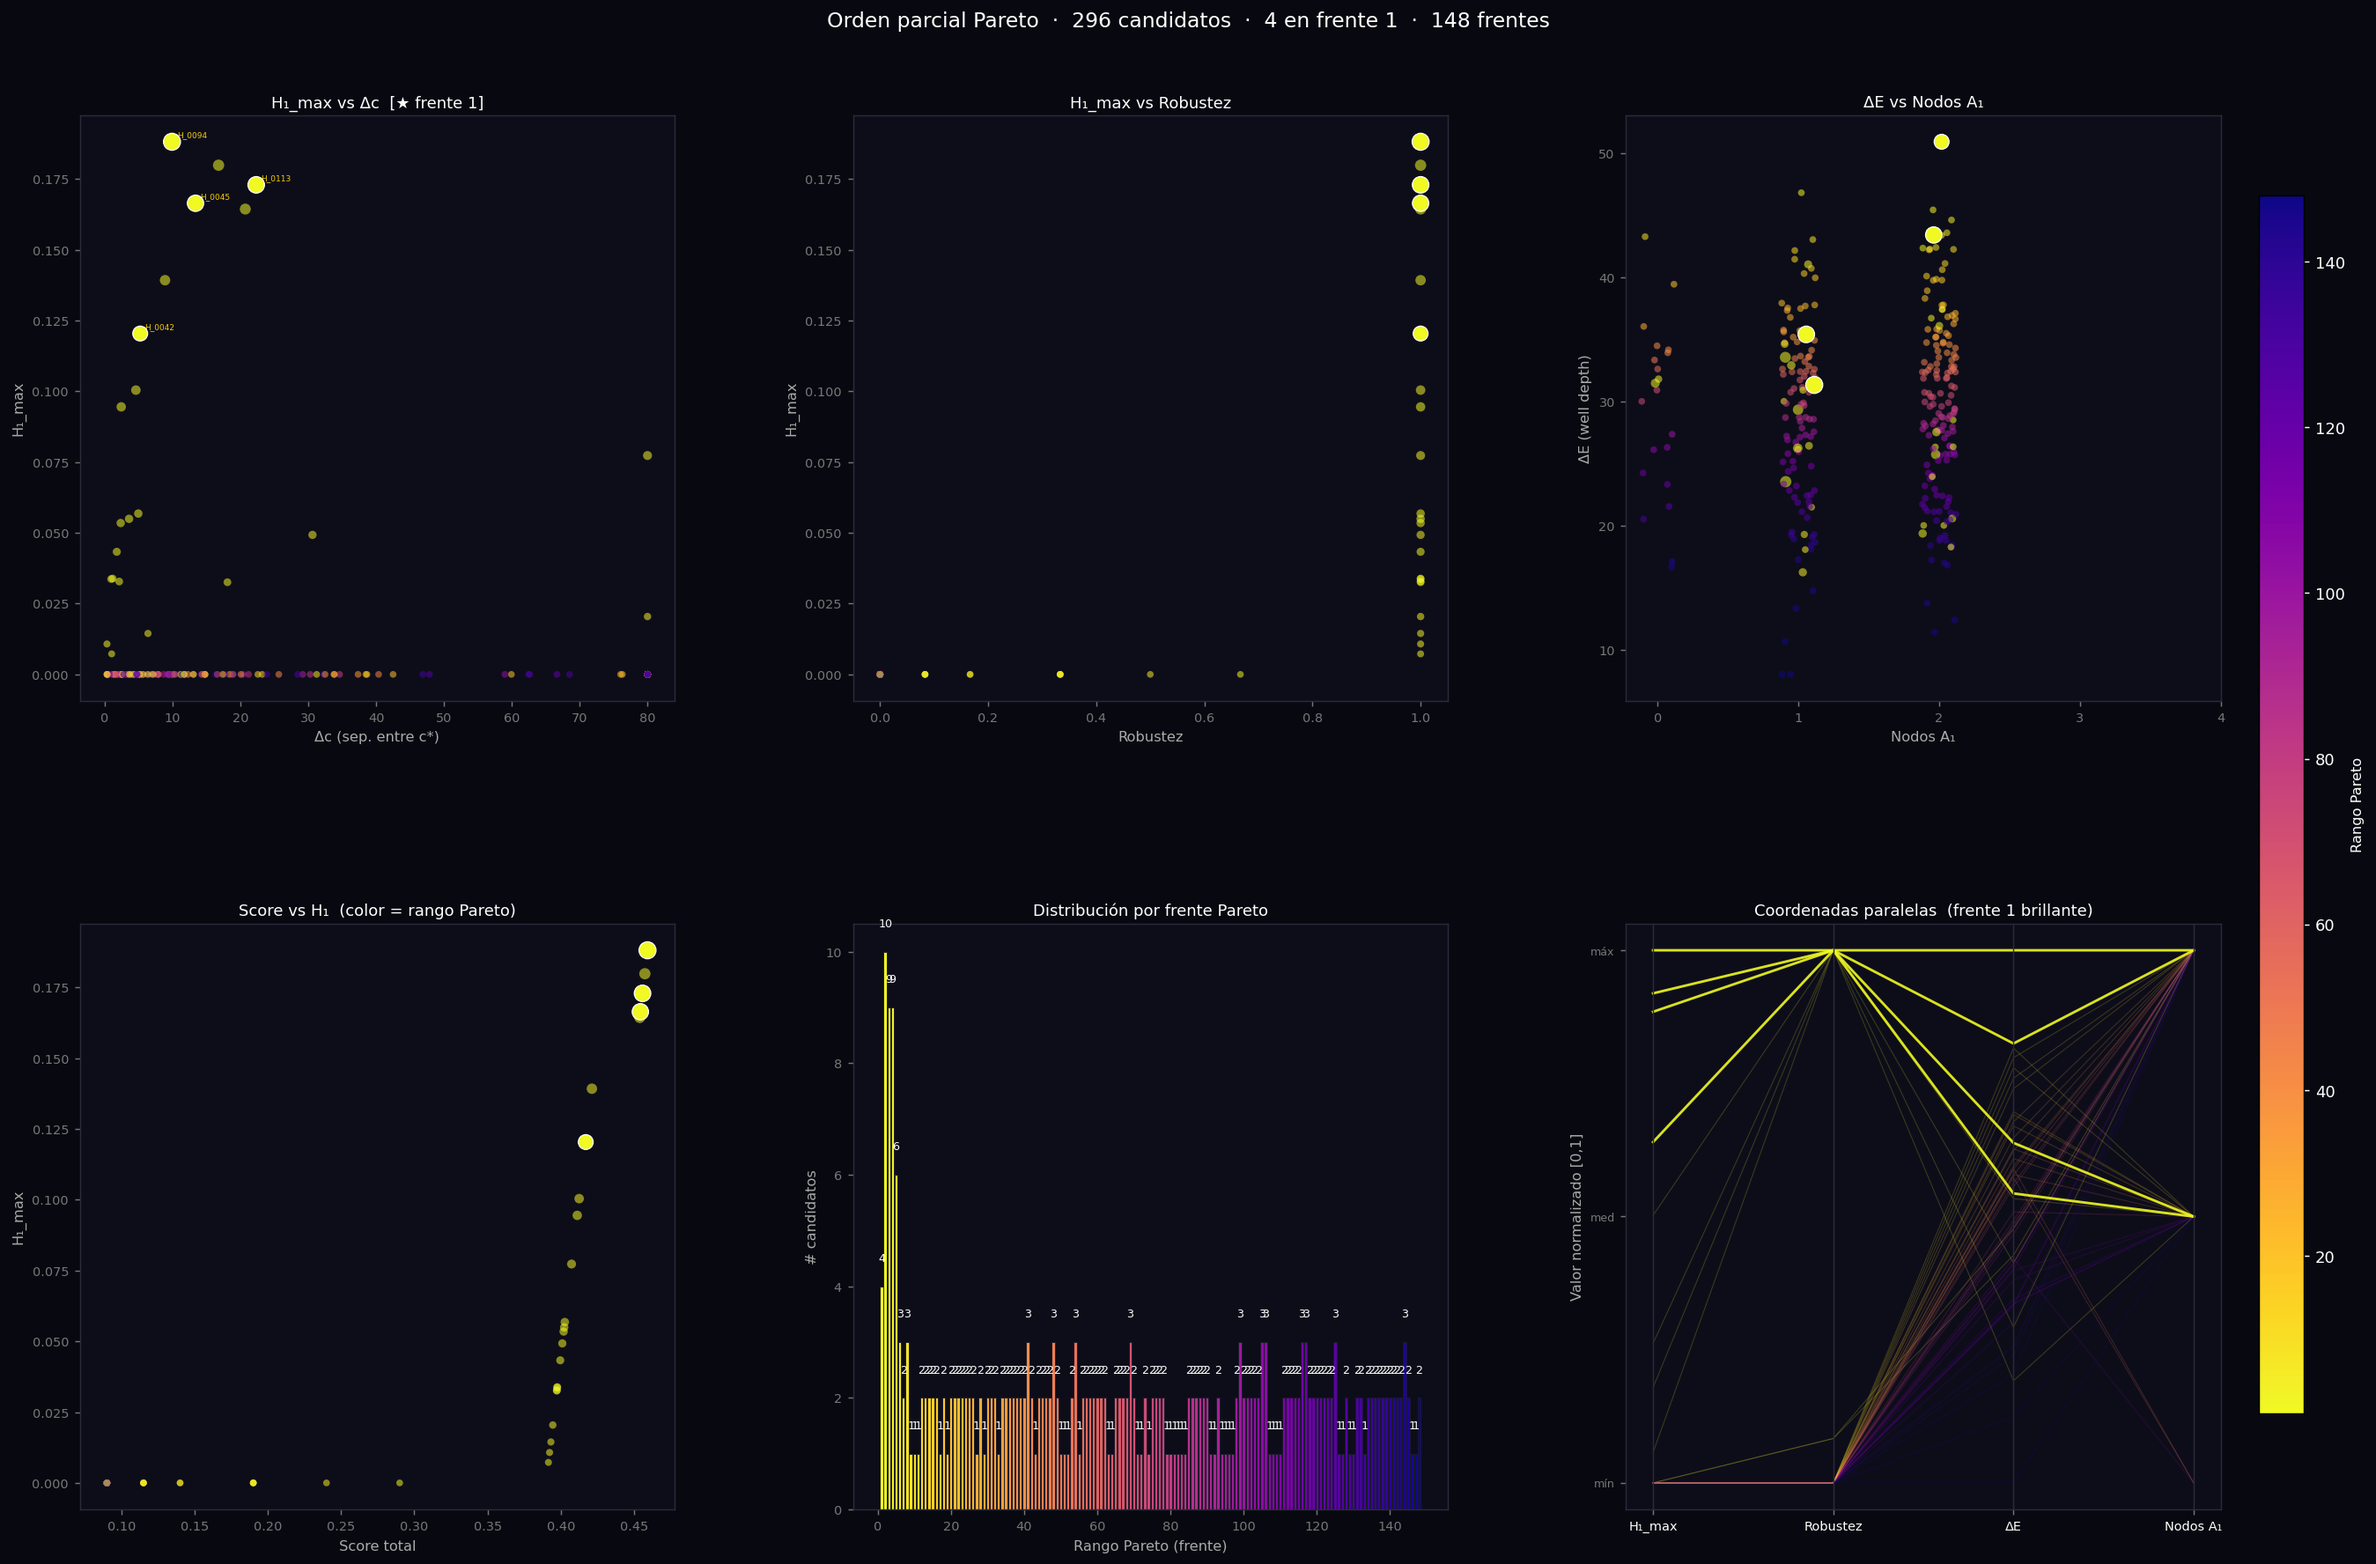
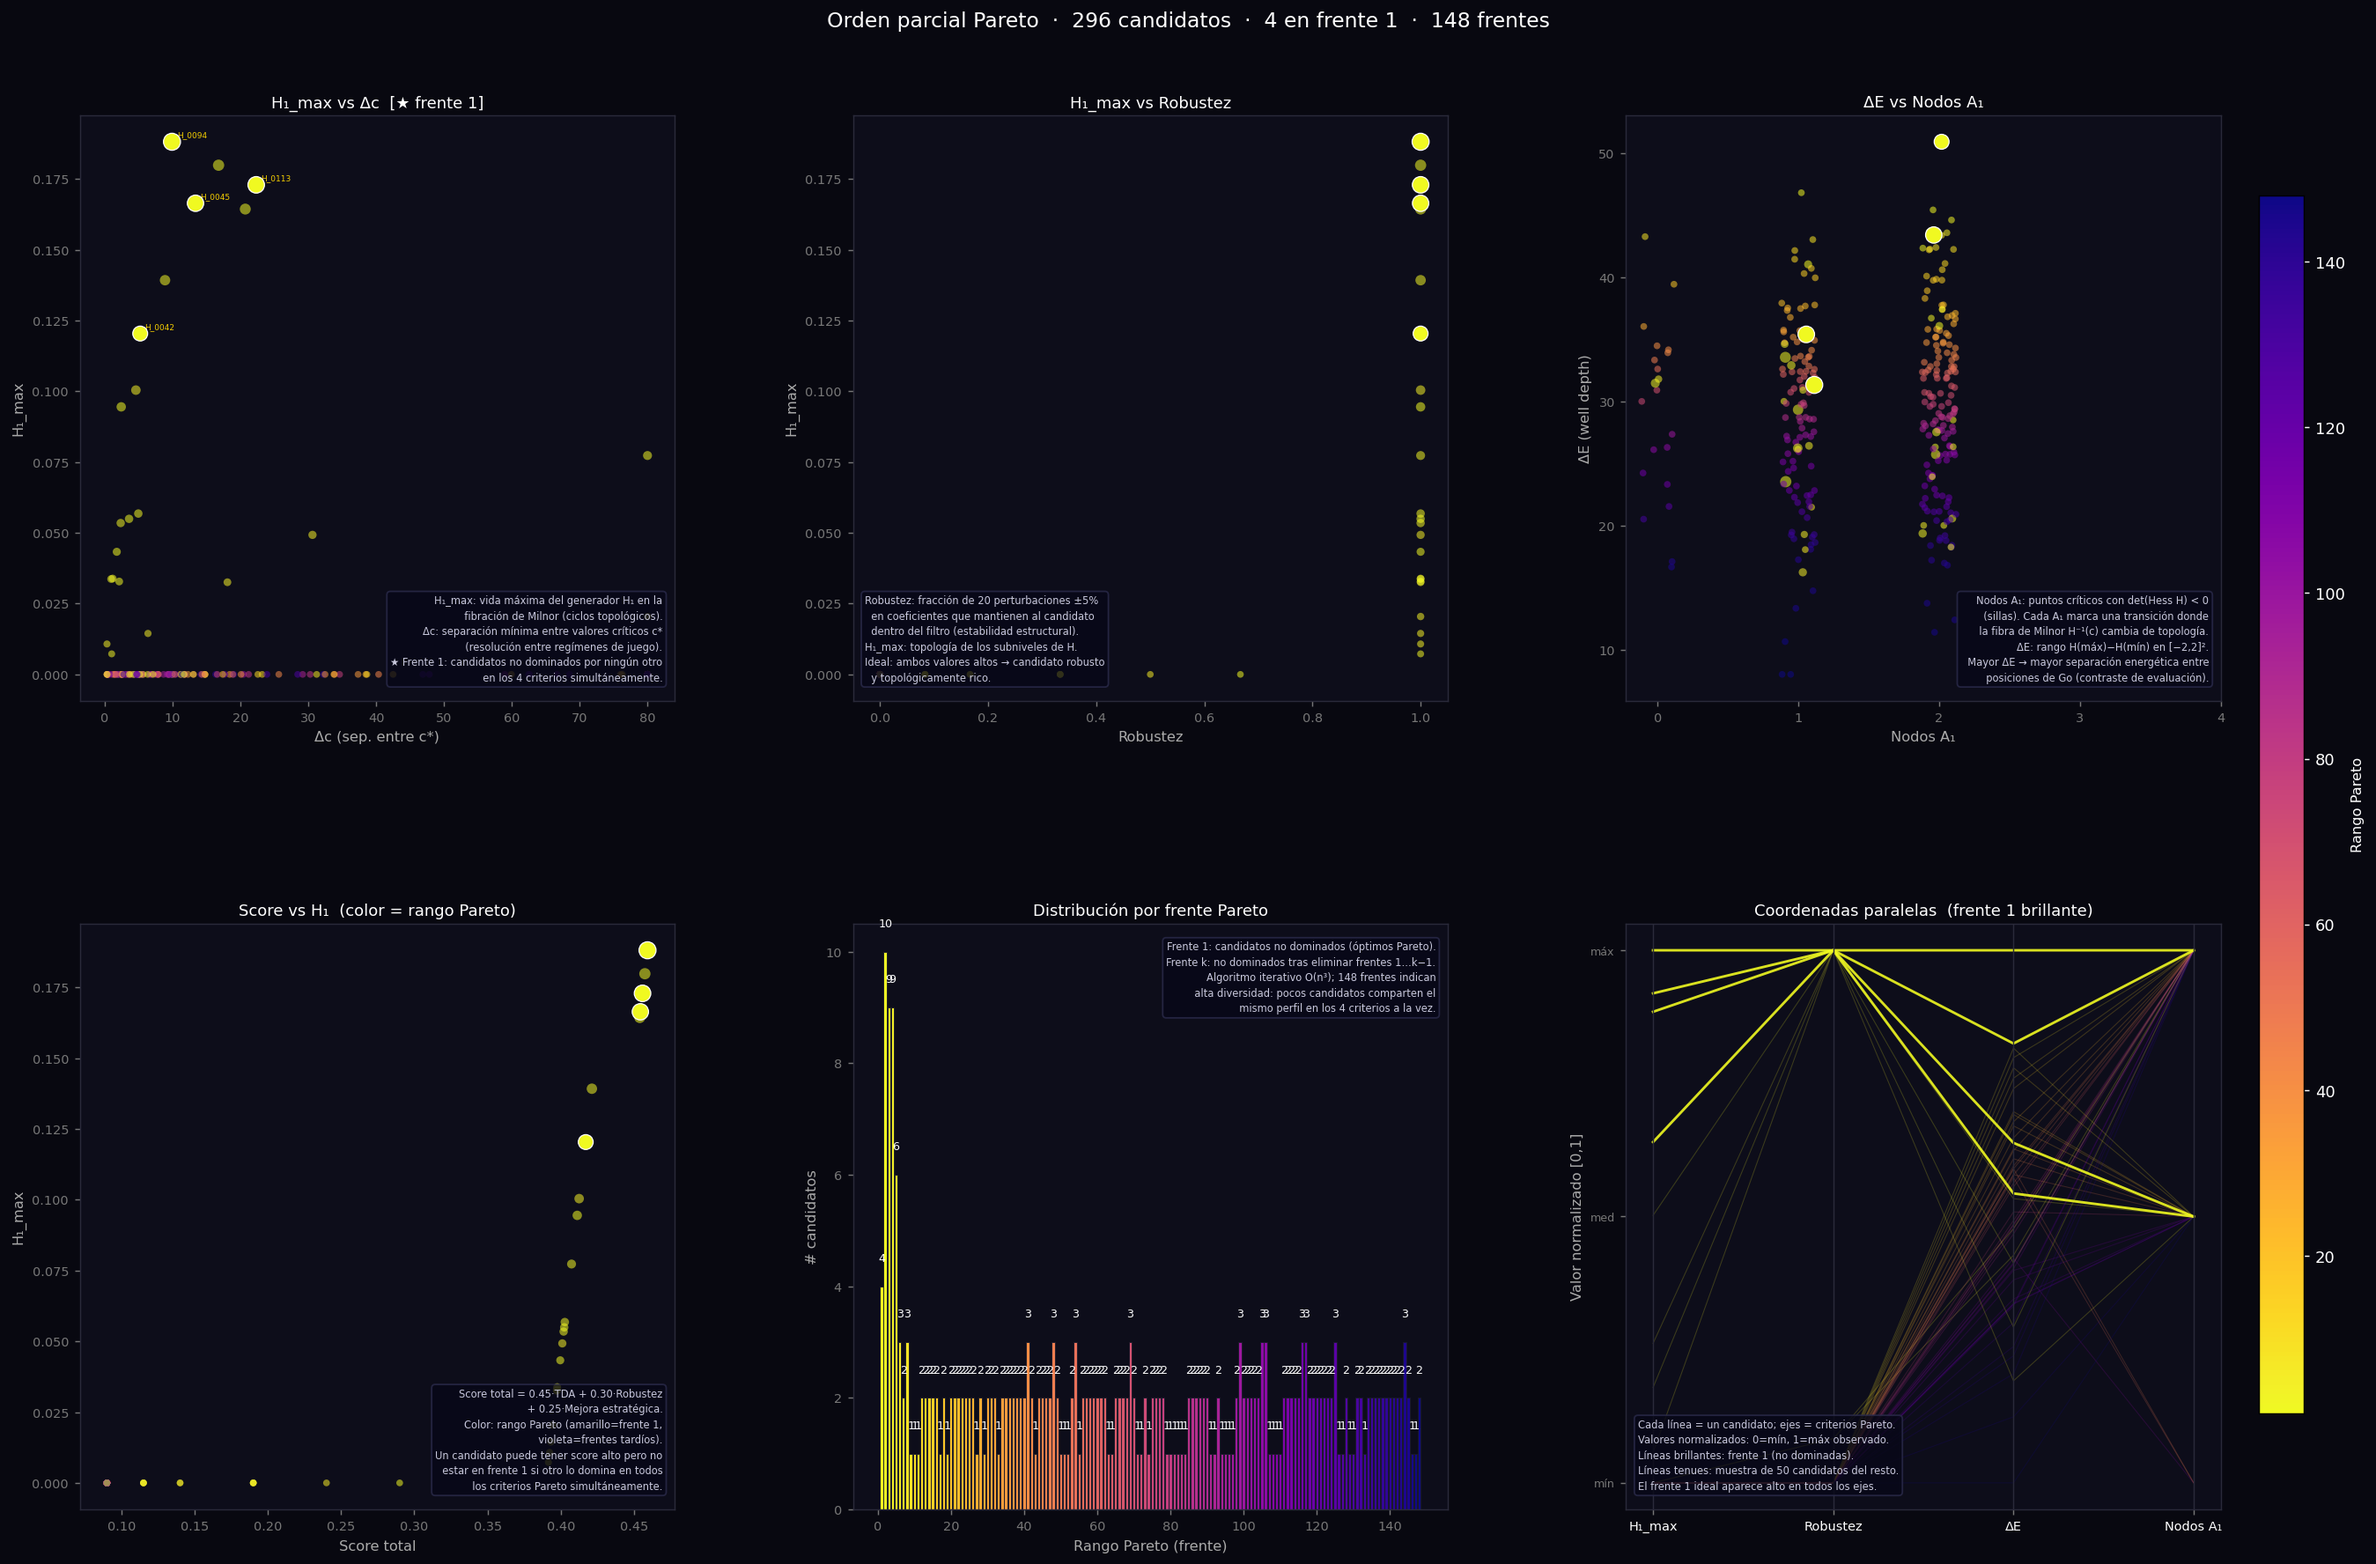
Añadir cajas de explicación a cada subplot del pareto_overview
Cada uno de los 6 grafos incluye ahora una nota descriptiva incrustada
que explica qué mide el eje, cómo leerlo y su conexión con la teoría
de fibración de Milnor y la estrategia de Go.

diff --git a/experiments/06_hamiltonian_families/pipeline.py b/experiments/06_hamiltonian_families/pipeline.py
@@ -550,15 +550,44 @@ def _generate_pareto_overview(catalog: Catalog, cfg: dict):
                             textcoords="offset points",
                             fontsize=5, color="#FFD700", alpha=0.95)
 
+    def _explain(ax, lines, loc="lower left"):
+        """Añade una caja de explicación dentro del subplot."""
+        va = "bottom" if "lower" in loc else "top"
+        ha = "left"   if "left"  in loc else "right"
+        x  = 0.02 if "left" in loc else 0.98
+        y  = 0.03 if "lower" in loc else 0.97
+        ax.text(x, y, "\n".join(lines),
+                transform=ax.transAxes,
+                fontsize=6.4, color="#C8C8DC", va=va, ha=ha,
+                linespacing=1.45,
+                bbox=dict(boxstyle="round,pad=0.35",
+                          fc="#080818", ec="#2A2A4A", alpha=0.82))
+
     # — Plot 1: H₁ vs Δc ——————————————————————————————————————————————————————
     ax1 = _ax((0,0), "Δc (sep. entre c*)", "H₁_max",
                "H₁_max vs Δc  [★ frente 1]")
     _scatter(ax1, dcs, h1s)
+    _explain(ax1, [
+        "H₁_max: vida máxima del generador H₁ en la",
+        "  fibración de Milnor (ciclos topológicos).",
+        "Δc: separación mínima entre valores críticos c*",
+        "  (resolución entre regímenes de juego).",
+        "★ Frente 1: candidatos no dominados por ningún otro",
+        "  en los 4 criterios simultáneamente.",
+    ], loc="lower right")
 
     # — Plot 2: H₁ vs Robustez ————————————————————————————————————————————————
     ax2 = _ax((0,1), "Robustez", "H₁_max",
                "H₁_max vs Robustez")
     _scatter(ax2, robs, h1s, annotate_f1=False)
+    _explain(ax2, [
+        "Robustez: fracción de 20 perturbaciones ±5%",
+        "  en coeficientes que mantienen al candidato",
+        "  dentro del filtro (estabilidad estructural).",
+        "H₁_max: topología de los subniveles de H.",
+        "Ideal: ambos valores altos → candidato robusto",
+        "  y topológicamente rico.",
+    ], loc="lower left")
 
     # — Plot 3: ΔE vs nodos A₁ (jitter en x) ———————————————————————————————
     ax3 = _ax((0,2), "Nodos A₁", "ΔE (well depth)",
@@ -566,11 +595,28 @@ def _generate_pareto_overview(catalog: Catalog, cfg: dict):
     jitter = np.random.default_rng(0).uniform(-0.12, 0.12, len(na1s))
     _scatter(ax3, na1s + jitter, wds, annotate_f1=False)
     ax3.set_xticks([0, 1, 2, 3, 4])
+    _explain(ax3, [
+        "Nodos A₁: puntos críticos con det(Hess H) < 0",
+        "  (sillas). Cada A₁ marca una transición donde",
+        "  la fibra de Milnor H⁻¹(c) cambia de topología.",
+        "ΔE: rango H(máx)−H(mín) en [−2,2]².",
+        "  Mayor ΔE → mayor separación energética entre",
+        "  posiciones de Go (contraste de evaluación).",
+    ], loc="lower right")
 
     # — Plot 4: Score total vs H₁ ——————————————————————————————————————————————
     ax4 = _ax((1,0), "Score total", "H₁_max",
                "Score vs H₁  (color = rango Pareto)")
     _scatter(ax4, tots, h1s, annotate_f1=False)
+    _explain(ax4, [
+        "Score total = 0.45·TDA + 0.30·Robustez",
+        "            + 0.25·Mejora estratégica.",
+        "Color: rango Pareto (amarillo=frente 1,",
+        "  violeta=frentes tardíos).",
+        "Un candidato puede tener score alto pero no",
+        "  estar en frente 1 si otro lo domina en todos",
+        "  los criterios Pareto simultáneamente.",
+    ], loc="lower right")
 
     # — Plot 5: distribución de candidatos por frente —————————————————————————
     ax5 = _ax((1,1), "Rango Pareto (frente)", "# candidatos",
@@ -586,6 +632,13 @@ def _generate_pareto_overview(catalog: Catalog, cfg: dict):
         ax5.text(bar.get_x() + bar.get_width()/2, cnt + 0.4, str(cnt),
                  ha="center", va="bottom", color="white", fontsize=7)
     ax5.tick_params(colors="#777", labelsize=8)
+    _explain(ax5, [
+        "Frente 1: candidatos no dominados (óptimos Pareto).",
+        "Frente k: no dominados tras eliminar frentes 1…k−1.",
+        "Algoritmo iterativo O(n³); 148 frentes indican",
+        "  alta diversidad: pocos candidatos comparten el",
+        "  mismo perfil en los 4 criterios a la vez.",
+    ], loc="upper right")
 
     # — Plot 6: coordenadas paralelas (front 1 + muestra del resto) ————————
     ax6 = _ax((1,2), "", "Valor normalizado [0,1]",
@@ -611,6 +664,13 @@ def _generate_pareto_overview(catalog: Catalog, cfg: dict):
     ax6.set_xlim(-0.15, 3.15); ax6.set_ylim(-0.05, 1.05)
     for xi in range(4):
         ax6.axvline(xi, color="#2A2A3A", lw=0.8)
+    _explain(ax6, [
+        "Cada línea = un candidato; ejes = criterios Pareto.",
+        "Valores normalizados: 0=mín, 1=máx observado.",
+        "Líneas brillantes: frente 1 (no dominadas).",
+        "Líneas tenues: muestra de 50 candidatos del resto.",
+        "El frente 1 ideal aparece alto en todos los ejes.",
+    ], loc="lower left")
 
     # Colorbar compartida
     sm = ScalarMappable(norm=norm, cmap=cmap)
